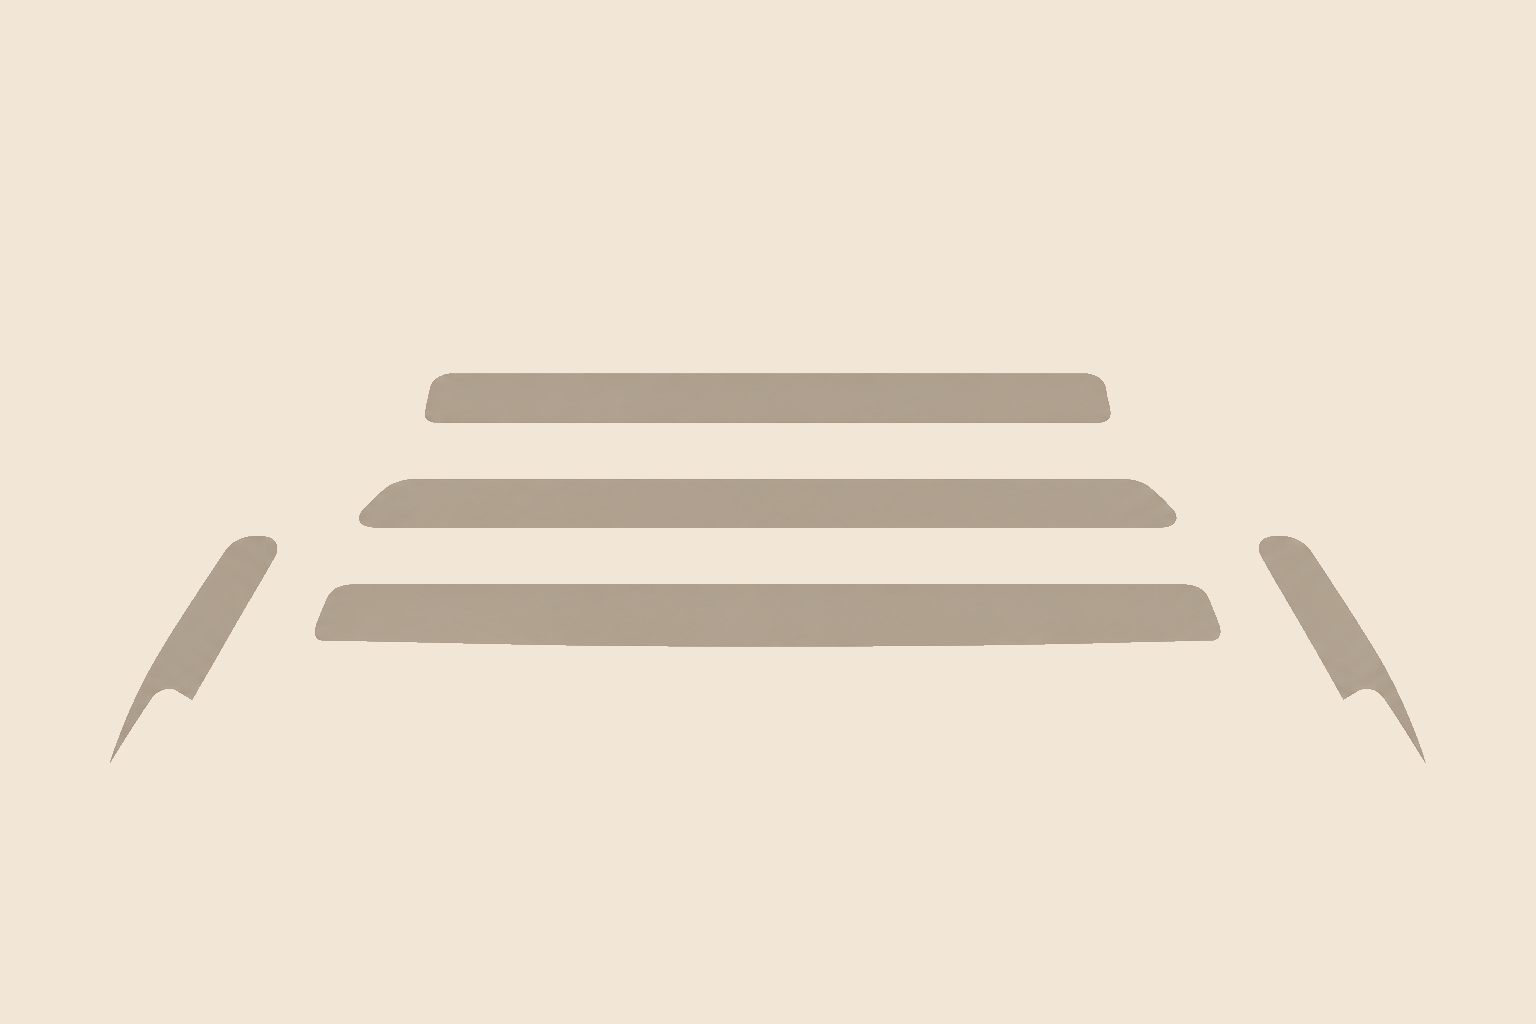
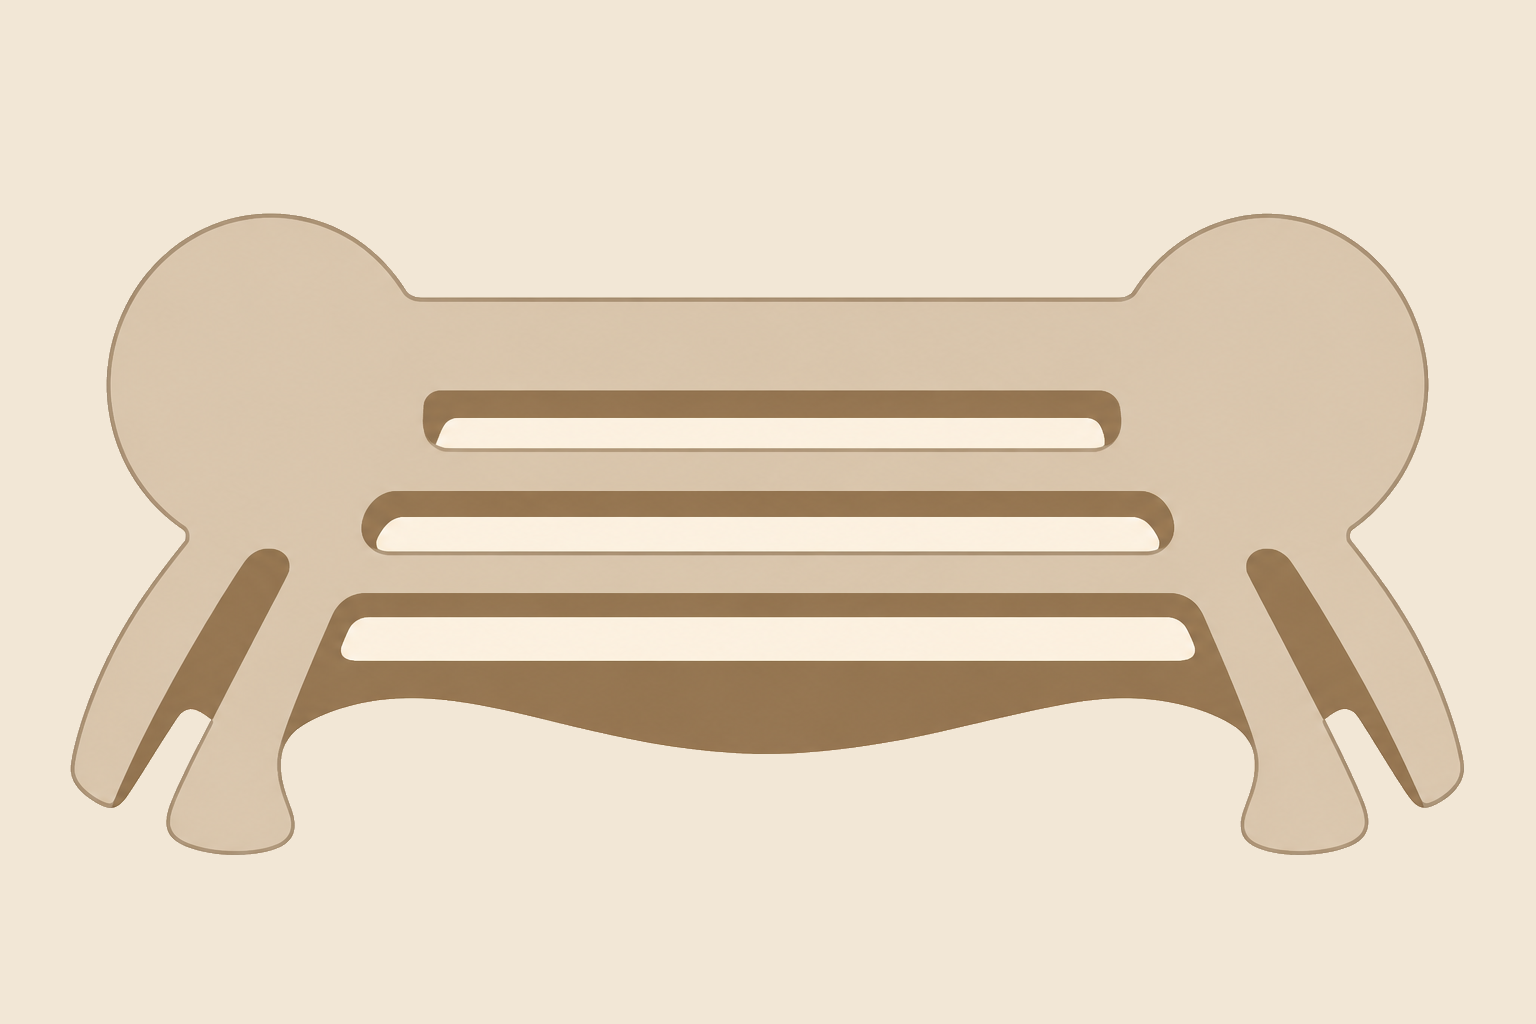
Fix reviewed flat hangboard outliers

diff --git a/.context/flat-hangboard-illustrations/batch-review.md b/.context/flat-hangboard-illustrations/batch-review.md
@@ -1,4 +1,4 @@
-Verdict: NEEDS_REVIEW
+Verdict: PASS
 
 Inventory
 
@@ -15,22 +15,25 @@ Representative inspection scope
 
 Checks
 
-1. Recognizable silhouette and orientation: mostly PASS
-2. Major hold rows / paired structures / center gaps preserved: mostly PASS
+1. Recognizable silhouette and orientation: PASS
+2. Major hold rows / paired structures / center gaps preserved: PASS
 3. Warm flat style consistency: PASS
 4. No accidental text / branding / unrelated objects: PASS
-5. Trace-friendly contrast and separation: mixed
-
-Known weak images
-
-- `soill-iron-palm-2-flat.png`: recognizable, but still lighter and more minimal than ideal.
-- `trango-rock-prodigy-pivot-flat.png`: paired-board structure reads, but some interior treatment remains softer and less clean than the strongest boards.
+5. Trace-friendly contrast and separation: PASS
 
 Repair notes
 
 - Regenerated `soill-split-palm-flat.png` with a board-specific prompt to restore the paired palm-board silhouette and visible center gap.
 - Regenerated `soill-training-tiles-flat.png` with a board-specific prompt to restore the paired training-tile cutout geometry and improve traceability.
+- Regenerated `soill-iron-palm-2-flat.png` with a board-specific prompt to restore the two dominant circular palm pods, the central connecting body, and the large lower curved cavity.
+- Regenerated `trango-rock-prodigy-pivot-flat.png` with a board-specific prompt to restore the paired-board layout, crisp silhouettes, and clearly separated internal cavities while removing sketchy remnants.
+
+Focused verification for this fix pass
+
+- Re-inspected `soill-iron-palm-2-flat.png` to confirm both circular palm pods, the connecting body, the angled side legs, and the large lower curved cavity remain visible against the parchment background.
+- Re-inspected `trango-rock-prodigy-pivot-flat.png` to confirm the paired-board layout, clean center gap, crisp flat silhouettes, and clearly separated internal cavities.
+- Rebuilt and re-inspected `docs/hangboard-generative-catalog/flat-illustrations-contact-sheet.png` to confirm both repaired boards now read correctly in catalog context.
 
 Batch conclusion
 
-The batch is complete and usable as a preview/reference set, but the two weak images above should be candidates for a later cleanup pass if the catalog needs uniformly strong tracing references across every board.
+The batch now satisfies the preview/reference requirements across the reviewed set, including the previously flagged `soill-iron-palm-2-flat.png` and `trango-rock-prodigy-pivot-flat.png` repairs.

diff --git a/.superpowers/sdd/2026-08-09-flat-hangboard-illustrations/task-2-report.md b/.superpowers/sdd/2026-08-09-flat-hangboard-illustrations/task-2-report.md
@@ -56,3 +56,38 @@ Remaining concerns
 - `soill-iron-palm-2-flat.png` remains lighter and simpler than ideal.
 - `trango-rock-prodigy-pivot-flat.png` remains softer and less clean internally than the strongest boards.
 - These are usable preview references, but they are the first candidates for any later regeneration pass.
+
+Fix pass — August 9, 2026
+
+Summary
+
+Applied the requested review fixes to exactly two outputs:
+
+- `docs/hangboard-generative-catalog/flat-illustrations/soill-iron-palm-2-flat.png`
+- `docs/hangboard-generative-catalog/flat-illustrations/trango-rock-prodigy-pivot-flat.png`
+
+Implementation notes
+
+- Regenerated `soill-iron-palm-2-flat.png` from the original source PNG with a tighter prompt that explicitly preserved the two dominant circular palm pods, the central connecting body, and the large lower curved cavity.
+- Regenerated `trango-rock-prodigy-pivot-flat.png` from the original source PNG with a tighter prompt that explicitly preserved the paired-board layout, crisp silhouettes, and clearly separated internal cavities while removing sketchy remnants.
+- Rebuilt `docs/hangboard-generative-catalog/flat-illustrations-contact-sheet.png` after both replacements.
+- Updated `.context/flat-hangboard-illustrations/batch-review.md` to record the repair pass and final verdict.
+
+Focused verification
+
+- Visually rechecked `soill-iron-palm-2-flat.png` after replacement and confirmed the two circular palm pods, central connecting body, and large lower curved cavity are present and readable.
+- Visually rechecked `trango-rock-prodigy-pivot-flat.png` after replacement and confirmed the paired-board layout, center gap, crisp silhouettes, and clearly separated internal cavities are present.
+- Visually rechecked the rebuilt contact sheet to confirm both repaired boards read correctly in their labeled catalog positions.
+- Confirmed the source/output inventory remains 32 source stems and 32 flat outputs with no missing or extra `*-flat.png` files.
+
+Changed files for fix pass
+
+- `docs/hangboard-generative-catalog/flat-illustrations/soill-iron-palm-2-flat.png`
+- `docs/hangboard-generative-catalog/flat-illustrations/trango-rock-prodigy-pivot-flat.png`
+- `docs/hangboard-generative-catalog/flat-illustrations-contact-sheet.png`
+- `.context/flat-hangboard-illustrations/batch-review.md`
+- this report file
+
+Updated assessment
+
+- Batch QA verdict: PASS
